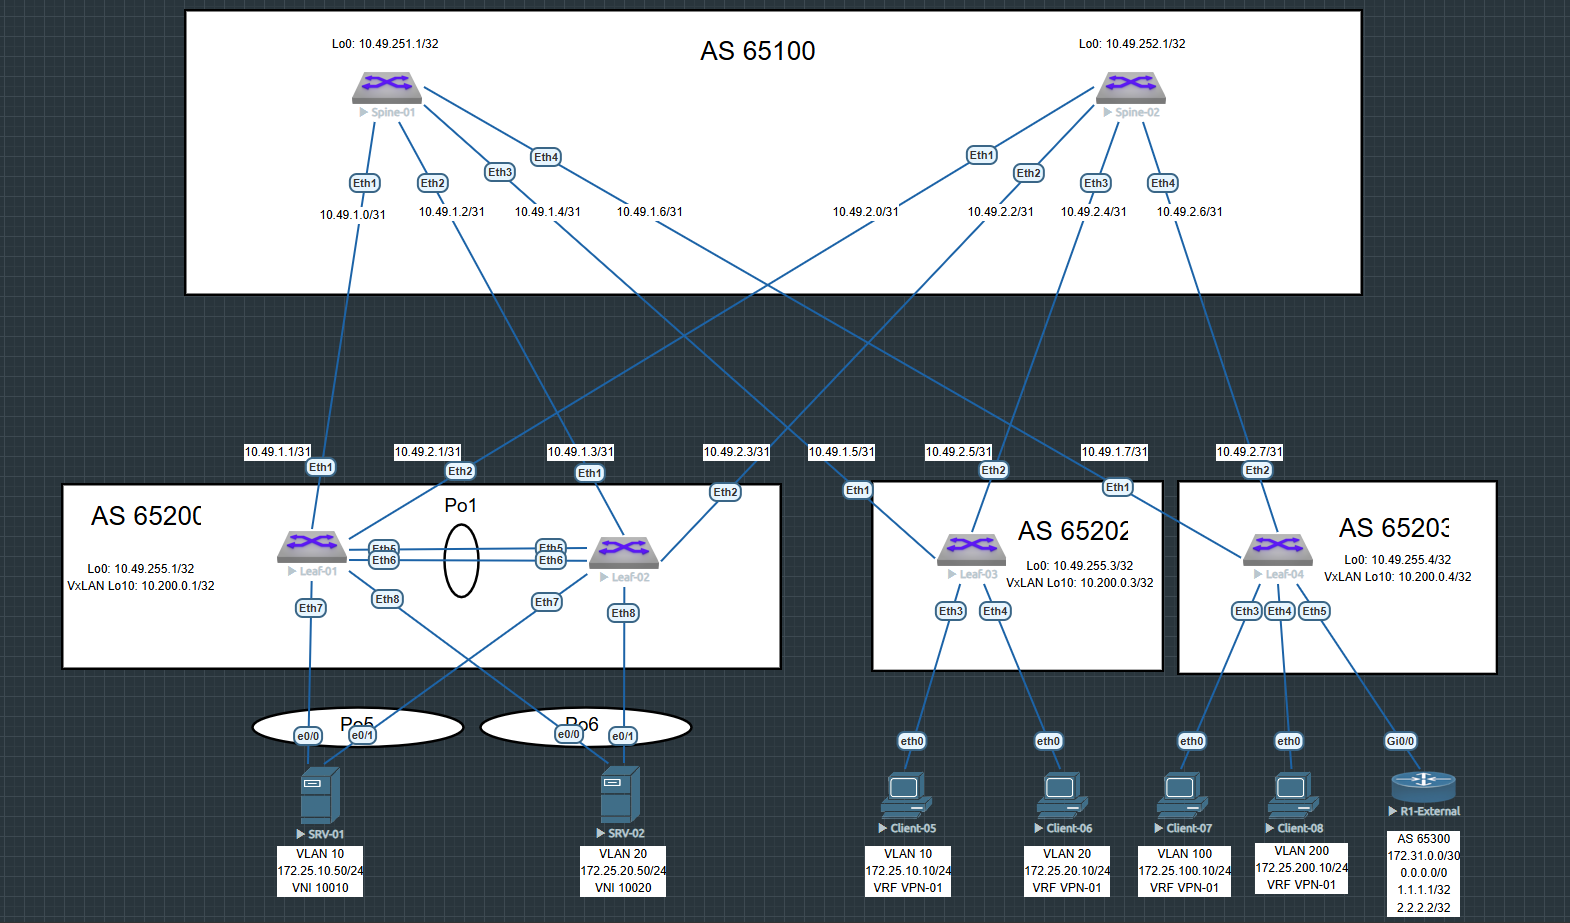
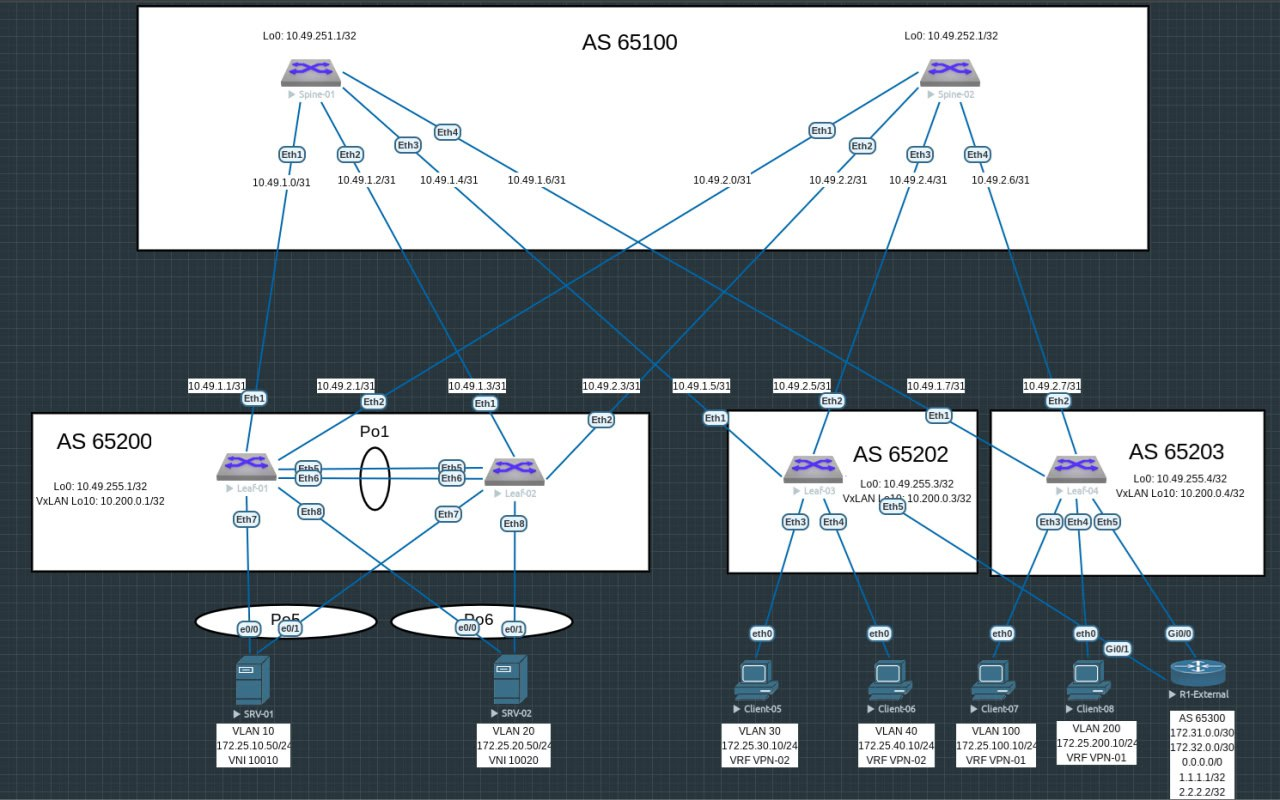
08-final-03

Changed region(s): [[0.0, 0.0, 1.0, 1.0], [0.7812, 0.4062, 0.8125, 0.4375], [0.4375, 0.25, 0.4688, 0.2812]]

diff --git a/Hometask/08/README.MD b/Hometask/08/README.MD
@@ -269,19 +269,19 @@ end
 - #### [leaf-03](config/leaf-03.ios)
 
 ```
-vlan 10
-   name VLAN-10
+vlan 30,40,888
 !
-vlan 20
-   name VLAN-20
-!
-vrf instance VPN-01
+vrf instance VPN-02
 !
 interface Ethernet3
-   switchport access vlan 10
+   switchport access vlan 30
 !
 interface Ethernet4
-   switchport access vlan 20
+   switchport access vlan 40
+!
+interface Ethernet5
+   switchport trunk allowed vlan 888
+   switchport mode trunk
 !
 interface Loopback0
    ip address 10.49.255.3/32
@@ -289,26 +289,30 @@ interface Loopback0
 interface Loopback10
    ip address 10.200.0.3/32
 !
-interface Vlan10
-   vrf VPN-01
-   ip address virtual 172.25.10.254/24
+interface Vlan30
+   vrf VPN-02
+   ip address 172.25.30.254/24
 !
-interface Vlan20
-   vrf VPN-01
-   ip address virtual 172.25.20.254/24
+interface Vlan40
+   vrf VPN-02
+   ip address 172.25.40.254/24
+!
+interface Vlan888
+   vrf VPN-02
+   ip address 172.32.0.1/30
 !
 interface Vxlan1
    vxlan source-interface Loopback10
    vxlan udp-port 4789
-   vxlan vlan 10 vni 10010
-   vxlan vlan 20 vni 10020
-   vxlan vrf VPN-01 vni 155
+   vxlan vlan 30 vni 10030
+   vxlan vlan 40 vni 10040
+   vxlan vrf VPN-02 vni 165
    vxlan learn-restrict any
 !
 ip virtual-router mac-address 00:00:00:00:00:03
 !
 ip routing
-ip routing vrf VPN-01
+ip routing vrf VPN-02
 !
 router bgp 65202
    maximum-paths 4 ecmp 4
@@ -328,14 +332,14 @@ router bgp 65202
    neighbor 10.49.252.1 peer group EVPN
    redistribute connected route-map RM_CONNECTED
    !
-   vlan 10
-      rd 65202:10010
-      route-target both 10:10010
+   vlan 30
+      rd 65202:10030
+      route-target both 30:10030
       redistribute learned
    !
-   vlan 20
-      rd 65202:10020
-      route-target both 20:10020
+   vlan 40
+      rd 65202:10040
+      route-target both 40:10040
       redistribute learned
    !
    address-family evpn
@@ -343,14 +347,17 @@ router bgp 65202
    !
    address-family ipv4
       neighbor SPINE activate
+      neighbor 172.32.0.2 activate
    !
-   vrf VPN-01
-      rd 65202:155
-      route-target import evpn 155:155
-      route-target export evpn 155:155
+   vrf VPN-02
+      rd 65202:165
+      route-target import evpn 165:165
+      route-target export evpn 165:165
+      neighbor 172.32.0.2 remote-as 65300
       redistribute connected
 !
 end
+
 ```
 
 - #### [leaf-04](config/leaf-04.ios)
@@ -447,14 +454,20 @@ interface GigabitEthernet0/0.777
  encapsulation dot1Q 777
  ip address 172.31.0.2 255.255.255.252
 !
+interface GigabitEthernet0/1.888
+ encapsulation dot1Q 888
+ ip address 172.32.0.2 255.255.255.252
+!
 router bgp 65300
  bgp log-neighbor-changes
  neighbor 172.31.0.1 remote-as 65203
+ neighbor 172.32.0.1 remote-as 65202
  !
  address-family ipv4
   redistribute connected route-map RM_CONNECTED
   redistribute static
   neighbor 172.31.0.1 activate
+  neighbor 172.32.0.1 activate
   default-information originate
  exit-address-family
 !
@@ -702,21 +715,24 @@ VNI       VLAN       VRF          Source
 - #### leaf-03
 
 ```
-leaf-03#sh ip route vrf VPN-01
+leaf-03#sh ip route vrf VPN-02
 
-VRF: VPN-01
+VRF: VPN-02
 
 Gateway of last resort:
- B E      0.0.0.0/0 [200/0] via VTEP 10.200.0.4 VNI 155 router-mac 50:01:00:27:03:91 local-interface Vxlan1
+ B E      0.0.0.0/0 [200/0] via 172.32.0.2, Vlan888
 
- B E      1.1.1.1/32 [200/0] via VTEP 10.200.0.4 VNI 155 router-mac 50:01:00:27:03:91 local-interface Vxlan1
- B E      2.2.2.2/32 [200/0] via VTEP 10.200.0.4 VNI 155 router-mac 50:01:00:27:03:91 local-interface Vxlan1
- C        172.25.10.0/24 is directly connected, Vlan10
- C        172.25.20.0/24 is directly connected, Vlan20
- B E      172.25.100.0/24 [200/0] via VTEP 10.200.0.4 VNI 155 router-mac 50:01:00:27:03:91 local-interface Vxlan1
- B E      172.25.200.0/24 [200/0] via VTEP 10.200.0.4 VNI 155 router-mac 50:01:00:27:03:91 local-interface Vxlan1
- B E      172.31.0.0/30 [200/0] via VTEP 10.200.0.4 VNI 155 router-mac 50:01:00:27:03:91 local-interface Vxlan1
-
+ B E      1.1.1.1/32 [200/0] via 172.32.0.2, Vlan888
+ B E      2.2.2.2/32 [200/0] via 172.32.0.2, Vlan888
+ B E      172.25.10.50/32 [200/0] via 172.32.0.2, Vlan888
+ B E      172.25.10.0/24 [200/0] via 172.32.0.2, Vlan888
+ B E      172.25.20.0/24 [200/0] via 172.32.0.2, Vlan888
+ C        172.25.30.0/24 is directly connected, Vlan30
+ C        172.25.40.0/24 is directly connected, Vlan40
+ B E      172.25.100.0/24 [200/0] via 172.32.0.2, Vlan888
+ B E      172.25.200.0/24 [200/0] via 172.32.0.2, Vlan888
+ B E      172.31.0.0/30 [200/0] via 172.32.0.2, Vlan888
+ C        172.32.0.0/30 is directly connected, Vlan888
 
 ```
 ```
@@ -777,53 +793,33 @@ Vxlan1 is up, line protocol is up (connected)
   Remote MAC learning via EVPN
   VNI mapping to VLANs
   Static VLAN to VNI mapping is
-    [10, 10010]       [20, 10020]
+    [30, 10030]       [40, 10040]
   Dynamic VLAN to VNI mapping for 'evpn' is
-    [4092, 155]
+    [4093, 155]       [4094, 165]
   Note: All Dynamic VLANs used by VCS are internal VLANs.
         Use 'show vxlan vni' for details.
   Static VRF to VNI mapping is
-   [VPN-01, 155]
-  Headend replication flood vtep list is:
-    10 10.200.0.1
-    20 10.200.0.1
+   [VPN-02, 165]
   Shared Router MAC is 0000.0000.0000
+
 
 ```
 ```
-leaf-03#sh interfaces vxlan 1
-Vxlan1 is up, line protocol is up (connected)
-  Hardware is Vxlan
-  Source interface is Loopback10 and is active with 10.200.0.3
-  Listening on UDP port 4789
-  Replication/Flood Mode is headend with Flood List Source: EVPN
-  Remote MAC learning via EVPN
-  VNI mapping to VLANs
-  Static VLAN to VNI mapping is
-    [10, 10010]       [20, 10020]
-  Dynamic VLAN to VNI mapping for 'evpn' is
-    [4092, 155]
-  Note: All Dynamic VLANs used by VCS are internal VLANs.
-        Use 'show vxlan vni' for details.
-  Static VRF to VNI mapping is
-   [VPN-01, 155]
-  Headend replication flood vtep list is:
-    10 10.200.0.1
-    20 10.200.0.1
-  Shared Router MAC is 0000.0000.0000
-leaf-03#show vxlan vni
+
+leaf-03#sh vxlan vni
 VNI to VLAN Mapping for Vxlan1
 VNI         VLAN       Source       Interface       802.1Q Tag
 ----------- ---------- ------------ --------------- ----------
-10010       10         static       Ethernet3       untagged
-                                    Vxlan1          10
-10020       20         static       Ethernet4       untagged
-                                    Vxlan1          20
+10030       30         static       Ethernet3       untagged
+                                    Vxlan1          30
+10040       40         static       Ethernet4       untagged
+                                    Vxlan1          40
 
 VNI to dynamic VLAN Mapping for Vxlan1
 VNI       VLAN       VRF          Source
 --------- ---------- ------------ ------------
-155       4092       VPN-01       evpn
+155       4093                    evpn
+165       4094       VPN-02       evpn
 
 ```
 
@@ -931,102 +927,109 @@ VNI       VLAN       VRF          Source
 SRV-01#sh ip int b
 Interface              IP-Address      OK? Method Status                Protocol
 Vlan10                 172.25.10.50    YES NVRAM  up                    up
-SRV-01#
 SRV-01#ping 172.25.20.50
 Type escape sequence to abort.
 Sending 5, 100-byte ICMP Echos to 172.25.20.50, timeout is 2 seconds:
 !!!!!
-Success rate is 100 percent (5/5), round-trip min/avg/max = 5/22/56 ms
-SRV-01#ping 172.25.10.10
+Success rate is 100 percent (5/5), round-trip min/avg/max = 9/16/37 ms
+
+SRV-01#ping 172.25.30.10
 Type escape sequence to abort.
-Sending 5, 100-byte ICMP Echos to 172.25.10.10, timeout is 2 seconds:
+Sending 5, 100-byte ICMP Echos to 172.25.30.10, timeout is 2 seconds:
 !!!!!
-Success rate is 100 percent (5/5), round-trip min/avg/max = 63/84/133 ms
-SRV-01#ping 172.25.20.10
+Success rate is 100 percent (5/5), round-trip min/avg/max = 46/53/59 ms
+
+SRV-01#ping 172.25.40.10
 Type escape sequence to abort.
-Sending 5, 100-byte ICMP Echos to 172.25.20.10, timeout is 2 seconds:
+Sending 5, 100-byte ICMP Echos to 172.25.40.10, timeout is 2 seconds:
 !!!!!
-Success rate is 100 percent (5/5), round-trip min/avg/max = 24/55/136 ms
+Success rate is 100 percent (5/5), round-trip min/avg/max = 44/48/57 ms
+
 SRV-01#ping 172.25.100.10
 Type escape sequence to abort.
 Sending 5, 100-byte ICMP Echos to 172.25.100.10, timeout is 2 seconds:
 !!!!!
-Success rate is 100 percent (5/5), round-trip min/avg/max = 32/65/183 ms
+Success rate is 100 percent (5/5), round-trip min/avg/max = 22/26/32 ms
+
 SRV-01#ping 172.25.200.10
 Type escape sequence to abort.
 Sending 5, 100-byte ICMP Echos to 172.25.200.10, timeout is 2 seconds:
 !!!!!
-Success rate is 100 percent (5/5), round-trip min/avg/max = 17/63/219 ms
+Success rate is 100 percent (5/5), round-trip min/avg/max = 21/26/35 ms
+
 SRV-01#ping 1.1.1.1
 Type escape sequence to abort.
 Sending 5, 100-byte ICMP Echos to 1.1.1.1, timeout is 2 seconds:
 !!!!!
-Success rate is 100 percent (5/5), round-trip min/avg/max = 18/26/40 ms
+Success rate is 100 percent (5/5), round-trip min/avg/max = 23/27/30 ms
+
 SRV-01#ping 2.2.2.2
 Type escape sequence to abort.
 Sending 5, 100-byte ICMP Echos to 2.2.2.2, timeout is 2 seconds:
 !!!!!
-Success rate is 100 percent (5/5), round-trip min/avg/max = 15/15/16 ms
+Success rate is 100 percent (5/5), round-trip min/avg/max = 22/34/49 ms
+
 SRV-01#ping 3.3.3.3
 Type escape sequence to abort.
 Sending 5, 100-byte ICMP Echos to 3.3.3.3, timeout is 2 seconds:
 !!!!!
-Success rate is 100 percent (5/5), round-trip min/avg/max = 36/62/159 ms
-
+Success rate is 100 percent (5/5), round-trip min/avg/max = 26/29/33 ms
 
 ```
 
-- #### client-07
+- #### client-05
 
 ```
 VPCS> sh ip
 
 NAME        : VPCS[1]
-IP/MASK     : 172.25.100.10/24
-GATEWAY     : 172.25.100.254
+IP/MASK     : 172.25.30.10/24
+GATEWAY     : 172.25.30.254
 DNS         :
-MAC         : 00:50:79:66:68:0d
+MAC         : 00:50:79:66:68:0b
 LPORT       : 20000
 RHOST:PORT  : 127.0.0.1:30000
 MTU         : 1500
 
 VPCS> ping 172.25.10.50 -c 2
 
-84 bytes from 172.25.10.50 icmp_seq=1 ttl=253 time=34.999 ms
-84 bytes from 172.25.10.50 icmp_seq=2 ttl=253 time=31.212 ms
+84 bytes from 172.25.10.50 icmp_seq=1 ttl=251 time=54.338 ms
+84 bytes from 172.25.10.50 icmp_seq=2 ttl=251 time=29.631 ms
 
 VPCS> ping 172.25.20.50 -c 2
 
-84 bytes from 172.25.20.50 icmp_seq=1 ttl=253 time=32.153 ms
-84 bytes from 172.25.20.50 icmp_seq=2 ttl=253 time=25.676 ms
+84 bytes from 172.25.20.50 icmp_seq=1 ttl=251 time=44.202 ms
+84 bytes from 172.25.20.50 icmp_seq=2 ttl=251 time=64.482 ms
 
-VPCS> ping 172.25.10.10 -c 2
+VPCS> ping 172.25.40.10 -c 2
 
-84 bytes from 172.25.10.10 icmp_seq=1 ttl=62 time=28.715 ms
-84 bytes from 172.25.10.10 icmp_seq=2 ttl=62 time=24.229 ms
+84 bytes from 172.25.40.10 icmp_seq=1 ttl=63 time=12.066 ms
+84 bytes from 172.25.40.10 icmp_seq=2 ttl=63 time=21.611 ms
 
-VPCS> ping 172.25.20.10 -c 2
+VPCS> ping 172.25.100.10 -c 2
 
-84 bytes from 172.25.20.10 icmp_seq=1 ttl=62 time=43.869 ms
-84 bytes from 172.25.20.10 icmp_seq=2 ttl=62 time=24.788 ms
+84 bytes from 172.25.100.10 icmp_seq=1 ttl=61 time=45.910 ms
+84 bytes from 172.25.100.10 icmp_seq=2 ttl=61 time=29.807 ms
 
 VPCS> ping 172.25.200.10 -c 2
 
-84 bytes from 172.25.200.10 icmp_seq=1 ttl=63 time=26.728 ms
-84 bytes from 172.25.200.10 icmp_seq=2 ttl=63 time=12.009 ms
+84 bytes from 172.25.200.10 icmp_seq=1 ttl=61 time=26.081 ms
+84 bytes from 172.25.200.10 icmp_seq=2 ttl=61 time=26.825 ms
 
 VPCS> ping 1.1.1.1 -c 2
 
-84 bytes from 1.1.1.1 icmp_seq=1 ttl=254 time=16.096 ms
-84 bytes from 1.1.1.1 icmp_seq=2 ttl=254 time=12.862 ms
+84 bytes from 1.1.1.1 icmp_seq=1 ttl=254 time=13.010 ms
+84 bytes from 1.1.1.1 icmp_seq=2 ttl=254 time=17.610 ms
 
 VPCS> ping 2.2.2.2 -c 2
 
-84 bytes from 2.2.2.2 icmp_seq=1 ttl=254 time=14.714 ms
-84 bytes from 2.2.2.2 icmp_seq=2 ttl=254 time=5.883 ms
+84 bytes from 2.2.2.2 icmp_seq=1 ttl=254 time=13.666 ms
+84 bytes from 2.2.2.2 icmp_seq=2 ttl=254 time=17.450 ms
 
 VPCS> ping 3.3.3.3 -c 2
 
-84 bytes from 3.3.3.3 icmp_seq=1 ttl=254 time=17.547 ms
-84 bytes from 3.3.3.3 icmp_seq=2 ttl=254 time=16.347 ms
+84 bytes from 3.3.3.3 icmp_seq=1 ttl=254 time=13.594 ms
+84 bytes from 3.3.3.3 icmp_seq=2 ttl=254 time=13.992 ms
+
+
 ```
